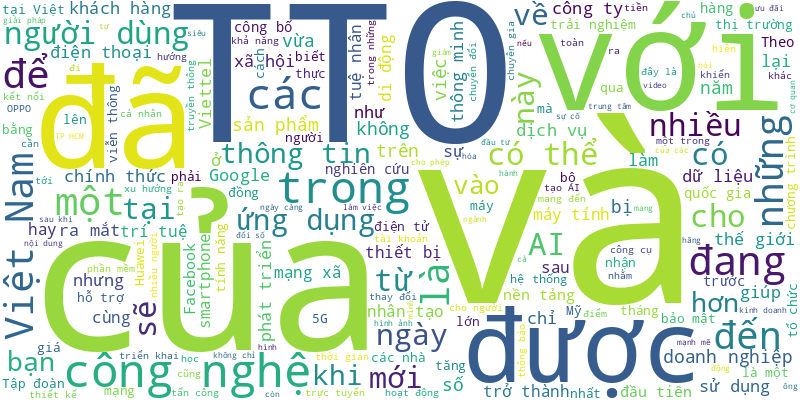
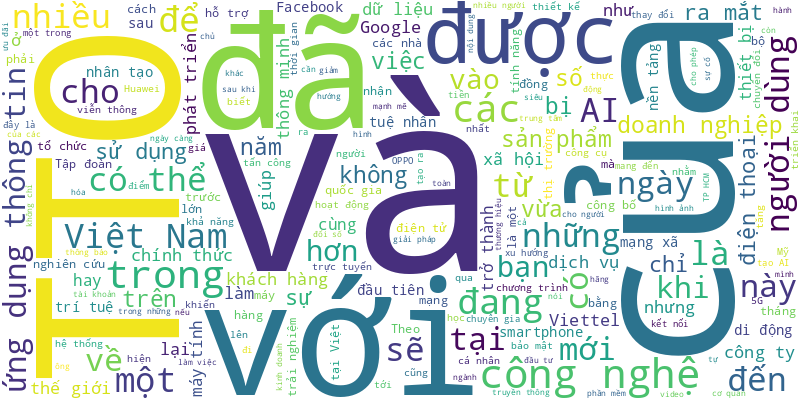
🍀 = 10%

diff --git a/README.md b/README.md
@@ -1,6 +1,12 @@
 # Tuoi Tre RSS 
 
 ## Giáo dục 
+- Bộ Quốc phòng vừa có giải đáp cử tri về việc đề nghị có quy định tạo điều kiện để quân nhân được công tác gần nhà nhằm ổn định cuộc sống và yên tâm phục vụ lâu dài.
+- The American School (TAS) nổi bật như một lựa chọn vững chắc với tầm nhìn dài hạn rõ ràng, chất lượng học thuật bền vững và môi trường học tập đa văn hóa, lấy học sinh làm trung tâm.
+- Camera an ninh cho thấy nhân viên nhà bếp đã thêm phẩm màu vào bột mì làm bánh cho trẻ tại trường mẫu giáo. Phẩm màu này có chứa chì và được dán nhãn không được ăn.
+- TP.HCM và Tập đoàn Intel phối hợp triển khai chương trình đào tạo nhân lực trong lĩnh vực trí tuệ nhân tạo (AI), trong đó tập trung vào cán bộ, công chức, những người đã và sắp đi làm của TP.
+- Sinh viên khoa marketing và truyền thông, Trường đại học Hoa Sen vừa hoàn thành môn học 'kỹ năng tạo lập văn bản truyền thông' tại Tuổi Trẻ.
+- Trong 6 giải nhất quốc gia cuộc thi vô địch tin học văn phòng, Nguyễn Thái Sơn là học sinh cấp 3 duy nhất.
 - Nhờ nỗ lực không ngừng và khả năng ngoại ngữ vượt trội, Hà Tiểu Linh, lớp 12/11 Trường Quốc tế Á Châu (Asian School), đạt học bổng của 10 trường đại học tại Hoa Kỳ.
 - Trong hệ thống giáo dục quốc tế, chương trình 'Dự bị Đại học' (Foundation Studies) là lựa chọn quen thuộc để học sinh rút ngắn thời gian trước khi vào đại học.
 - Nhiều thí sinh chờ có điểm thi tốt nghiệp THPT 2025 rồi xét tuyển vì năm nay không còn xét tuyển sớm, trong khi nhiều trường đại học yêu cầu thí sinh nộp hồ sơ sớm trực tuyến, trực tiếp để phục vụ công tác xét tuyển.
@@ -995,14 +1001,77 @@
 - Áp dụng chính sách học bổng toàn diện trong kỳ tuyển sinh 2025, Trường đại học Kinh tế - Tài chính TP.HCM (UEF) tiếp tục triển khai nhiều loại học bổng dành cho đa dạng thí sinh.
 - Bình Dương với đặc thù là tỉnh thu hút vốn đầu tư nước ngoài (FDI) dẫn đầu cả nước, nhân sự cho các nhà máy được doanh nghiệp và trường đại học phối hợp để đào tạo sinh viên đáp ứng nhu cầu sản xuất.
 - Đây là chia sẻ của các diễn giả trong chuỗi talkshow 'Học suốt đời' tại Trường đại học Hoa Sen vào ngày 19-4, với chủ đề 'Nghĩ khác, làm khác'.
-- Đại học Quốc gia TP.HCM sẽ phối hợp cùng tỉnh Đồng Tháp xây dựng chương trình phát triển nguồn nhân lực chất lượng cao, trong đó có mục tiêu đào tạo ít nhất 100 thạc sĩ và tiến sĩ.
-- 50 năm hòa bình, một thế hệ học sinh TP.HCM trải nghiệm lịch sử hào hùng ra sao? Từ những dòng nhật ký xúc động đến ngày hội 'Công dân nhí', câu chuyện về lòng yêu nước và trách nhiệm công dân được học sinh kể theo cách đầy bất ngờ.
-- Rất nhiều học sinh đã được Trường cao đẳng Lý Tự Trọng (TP.HCM) 'bật đèn xanh' cho phép học cao đẳng dù vẫn chưa hoàn thành hệ trung cấp.
-- Nhiều hoạt động sôi nổi của hàng ngàn giáo viên và trẻ mầm non khắp TP.HCM chào mừng 50 năm thống nhất đất nước tại 10 điểm cầu khiến người xem không muốn rời mắt.
-- Tỉnh Khánh Hòa vừa quyết định thu hồi đất đã giao hơn 10 năm trước thuộc dự án xây dựng Trường đại học Khánh Hòa tại xã Vĩnh Lương, TP Nha Trang theo chủ trương trước đây.
-- Công an Thái Bình đang xác minh việc một nữ sinh Trường THCS An Mỹ, huyện Quỳnh Phụ bị đánh hội đồng gây xôn xao dư luận.
 ![Edu](Edu.png)
 ## Thời Sự 
+- Ông Nguyễn Phi Thường - giám đốc Sở Xây dựng Hà Nội - cho biết 3 phường mới đã hứa và quyết tâm trong quý 4-2025 sẽ phấn đầu hoàn thành giải phóng mặt bằng liên quan tới dự án đường Vành đai 1, đoạn Hoàng Cầu - Voi Phục.
+- Dự kiến ủy viên Ủy ban Trung ương MTTQ Việt Nam nhiệm kỳ 2026 - 2031 sẽ có 500 vị, trong đó cơ cấu một số chủ tịch Ủy ban MTTQ cấp xã tiêu biểu.
+- Lực lượng chức năng phát hiện trong nhà có một bé trai hơn 10 tuổi đang hoảng loạn vì mắc kẹt trong đám cháy. Ngay lập tức, lực lượng chữa cháy chuyên nghiệp đã phá cửa, xông vào đám cháy đưa cháu bé ra ngoài an toàn.
+- Chính quyền cấp xã được phân quyền, phân cấp cho phép thỏa thuận nhận quyền sử dụng đất để làm dự án, lập và duyệt kế hoạch sử dụng đất sẽ mang lại nhiều thuận lợi cho người dân và doanh nghiệp khi triển khai.
+- Nghị định mới của Chính phủ quy định rõ 4 hình thức xử lý kỷ luật và thời hạn xử lý kỷ luật đối với cán bộ, công chức có vi phạm.
+- Một vụ tai nạn dù lượn xảy ra trên bán đảo Sơn Trà, Đà Nẵng khiến một du khách rơi xuống rừng tử vong.
+- Bộ Quốc phòng vừa có giải đáp cử tri về việc đề nghị có quy định tạo điều kiện để quân nhân được công tác gần nhà nhằm ổn định cuộc sống và yên tâm phục vụ lâu dài.
+- Dự án vi phạm Lancaster Lincoln của Công ty cổ phần Trung Thủy Lancaster ngừng thi công từ năm 2018 được UBND TP.HCM cho thi công phần hầm ngừa sự cố, chờ tháo gỡ pháp lý dự án.
+- Những công trình đáng ra người dân được hưởng lợi, được khám chữa bệnh ở cơ sở y tế "ngang tầm quốc tế" song lại bị bỏ hoang lãng phí nhiều năm trời.
+- Vụ tai nạn xe khách đặc biệt nghiêm trọng xảy ra trên cao tốc Vĩnh Hảo - Phan Thiết lúc rạng sáng 9-7 khiến 3 người chết, nhiều người bị thương.
+- Tin tức đáng chú ý: Tỉ phú Trần Đình Long vừa kiếm 2.000 tỉ đồng chỉ trong 1 ngày; Dự kiến giảm 368 cơ quan chuyên môn thuộc UBND cấp tỉnh; Sốt xuất huyết vẫn tăng cao với hơn 700 ca/tuần...
+- Hôm nay 9-7, dù ban ngày nắng nhưng từ đêm trở đi mưa tăng ở Bắc Bộ, mở đầu cho đợt mưa to diện rộng. Nam Bộ chiều tối mưa cũng tăng.
+- Hà Nội yêu cầu Văn phòng UBND TP báo cáo Ban Thường vụ Đảng ủy UBND TP báo cáo Thường trực, Ban Thường vụ Thành ủy để xem xét, cho phép triển khai thực hiện thí điểm không cần công chứng hợp đồng cho tặng trong dự án bất động sản.
+- Bộ trưởng Phạm Thị Thanh Trà lưu ý việc rà soát, đề xuất phương án điều chỉnh mức lương cơ sở, các phụ cấp khi thực hiện mô hình chính quyền địa phương 2 cấp.
+- Phó bí thư Thành ủy, kiêm Chủ tịch Ủy ban MTTQ Việt Nam TP.HCM Nguyễn Phước Lộc làm việc với đảng ủy 17 phường, xã về công tác chuẩn bị đại hội đảng bộ.
+- Quảng Ngãi đã chuẩn bị đầy đủ các điều kiện để sẵn sàng triển khai hàng loạt dự án giao thông trọng điểm như đường sắt tốc độ cao Bắc - Nam, cao tốc Quảng Ngãi - Kon Tum, sân bay Măng Đen và sân bay Lý Sơn.
+- UBND TP.HCM cho phép dự án Lancaster Lincoln của Công ty cổ phần Trung Thủy Lancaster thi công phần hầm, không phải cho tiếp tục thi công dự án.
+- Sau vụ phát hiện dầu gió con ó giả, dầu Ông già Thái Lan giả... Sở Y tế TP.HCM yêu cầu các cơ sở y tế rà soát những sản phẩm kinh doanh trong khuôn viên bệnh viện.
+- Đến ngày 5-7 các phường, xã, đặc khu của TP.HCM tiếp nhận 11.581 hồ sơ cấp sổ hồng lần đầu và các hồ sơ đất đai khác.
+- Sau khi các địa phương sáp nhập, triển khai chính quyền hai cấp, cơ sở y tế thuộc quản lý của ủy ban nhân dân cấp huyện như bệnh viện đa khoa huyện trước đây có sự thay đổi thế nào?
+- Trong hai ngày 6 và 7-7, Công an phường Chợ Quán (Công an TP.HCM) tiếp nhận thông tin cần giúp đỡ từ người dân và sau đó trích xuất camera, tìm tài sản bị thất lạc trả lại cho người dân kịp thời.
+- Ngày 8-7, Chủ tịch UBND tỉnh Đồng Tháp Trần Trí Quang ký quyết định phân công nhiệm vụ của chủ tịch và 3 phó chủ tịch tỉnh này.
+- Liên danh gồm Đèo Cả, Fecon (Việt Nam) và Tập đoàn PowerChina, Công ty Sucgi (Trung Quốc) đề xuất tham gia làm metro số 2 và các tuyến đường sắt đô thị tại TP.HCM.
+- Đang bị tước quyền sử dụng giấy phép lái xe nhưng anh T. vẫn lái xe chở khách. Gặp cảnh sát giao thông, anh T. nhờ anh D. tự nhận là người lái xe.
+- Bộ Chính trị, Ban Bí thư yêu cầu các tỉnh ủy, thành ủy, đảng ủy trực thuộc Trung ương khẩn trương lãnh đạo, chỉ đạo hoàn thiện tổ chức các cơ quan hành chính, đơn vị sự nghiệp nhà nước.
+- Giám đốc Công an tỉnh Đồng Tháp Lâm Phước Nguyên được thăng cấp bậc hàm từ đại tá lên thiếu tướng.
+- Đồng Nai đồng ý thu hồi gần 24ha đất để làm dự án hệ thống ống dẫn nhiên liệu cho sân bay Long Thành.
+- UBND tỉnh Lâm Đồng vừa ban hành quyết định phân công chủ tịch và các phó chủ tịch UBND tỉnh theo dõi, chỉ đạo 48 dự án quy mô lớn, tổng vốn đầu tư lên đến nhiều tỉ USD.
+- Bộ Xây dựng thống nhất cần thiết đầu tư dự án đường cao tốc Mộc Châu - TP Sơn La dài 105km, tổng mức đầu tư dự kiến 22.262 tỉ đồng.
+- Nhà máy xử lý rác duy nhất của tỉnh Cà Mau vẫn đóng cửa do vướng thủ tục về đơn giá, địa phương phải triển khai hệ thống chôn rác tạm thời để tránh nguy cơ ùn ứ rác diện rộng.
+- Ông Nguyễn Đình Hưng - phó giám đốc Sở Y tế Hà Nội - đề xuất như vậy tại phiên thảo luận tổ, phiên họp thứ 25, HĐND TP Hà Nội chiều 8-7.
+- Chủ tịch UBND TP.HCM giao giám đốc Sở Văn hóa và Thể thao phối hợp xây dựng đề án sắp xếp HTV, VOH, BTV, BRT và sắp xếp, tinh gọn các báo, tạp chí do UBND TP.HCM làm chủ quản, gửi Sở Nội vụ trước 21-7.
+- Vụ tai nạn xảy ra chiều 8-7 trên tuyến đường sắt Bắc - Nam, đoạn qua xã Suối Kiết, tỉnh Lâm Đồng khiến người đàn ông chết tại chỗ.
+- Một phường ở Đà Nẵng đã mời chuyên gia công nghệ AI hướng dẫn cán bộ phường, với mong muốn 'AI sẽ là trợ lý hành chính ảo' giúp giảm tải thủ tục, nâng cao chất lượng dịch vụ công.
+- Khi vụ chặt bán 7 cây xà cừ trong khuôn viên phường Cheo Reo chưa kịp lắng xuống, dư luận lại phát hiện thêm 2 vụ cưa bán cây xanh tại 2 xã của tỉnh Gia Lai và tỉnh Bình Định cũ.
+- Ngày 8-7, đại diện Phòng cảnh sát giao thông (PC08) Công an TP.HCM cho biết từ ngày 1-7, Công an TP.HCM chính thức triển khai việc phân cấp đăng ký xe tại tất cả công an các phường, xã, đặc khu.
+- Việc đấu giá 21 lô đất tại phường Thanh Đức, tỉnh Vĩnh Long (huyện Long Hồ cũ) có sai phạm khi cá nhân bị hạn chế tham gia, thiếu tính cạnh tranh.
+- Bí thư Đảng ủy phường Bến Thành Hoàng Thị Tố Nga cho biết sắp tới phường Bến Thành (TP.HCM) sẽ sáp nhập 3 ban quản lý chợ gồm chợ Bến Thành, chợ Dân Sinh và chợ Thái Bình.
+- Dãy số trên thẻ bảo hiểm y tế có ý nghĩa như thế nào, nhìn thông tin có thể biết được mức hưởng.
+- Nguyên nhân bước đầu xác định là do đường dây dẫn điện cung cấp cho các thiết bị tiêu thụ điện do chủ căn hộ tự đấu nối bị chạm chập, gây cháy.
+- Đó là một trong những nội dung có trong thông tư vừa được Bộ Quốc phòng ban hành liên quan việc tuyển chọn và gọi công dân nhập ngũ.
+- Tại phiên họp thứ 28 của Ban Chỉ đạo Trung ương về phòng, chống tham nhũng, lãng phí, tiêu cực, đã quyết định bổ sung 4 vụ án, 2 vụ việc vào diện theo dõi, chỉ đạo.
+- Do chưa có tuyến đường nào cắm biển tốc độ tối đa 30km/h nên chủ 278 xe điện ở phường Cửa Lò, Nghệ An đang lo lắng trước nguy cơ phải dừng hoạt động.
+- Văn phòng Chính phủ thống kê từ ngày 1 đến ngày 4-7, Quảng Ngãi có 24 xã không phát sinh bất kỳ thủ tục hành chính nào.
+- Tại sông Hậu, tỉnh An Giang, một số cần thủ cho hay đang mùa câu cá cóc. Bên cạnh những người câu cá để giải trí còn có những người xem đây là nghề mưu sinh.
+- Sau vụ việc người dân tự ý chặt hạ cây phi lao trong rừng phòng hộ ven biển, chủ tịch UBND tỉnh Hà Tĩnh đã chỉ đạo các cơ quan chức năng chấn chỉnh.
+- Cần Thơ muốn hợp tác với GenAI Fund để ứng dụng AI vào cải cách thủ tục hành chính, đặc biệt là tổng đài 24/7 để tương tác với người dân.
+- Ban Thường vụ Tỉnh ủy Quảng Ngãi phân công nhiệm vụ cho ông Trần Thế Phan, chỉ huy trưởng Bộ Chỉ huy Quân sự tỉnh, theo dõi 2 địa bàn trọng yếu là xã biên giới Pờ Y và đặc khu Lý Sơn.
+- Trước mắt tỉnh Vĩnh Long (mới) chỉ bố trí được nhà ở công vụ, nhà lưu trú tạm cho hơn 580 cán bộ, trong tổng số gần 1.900 người có nhu cầu, sau hợp nhất với tỉnh Trà Vinh, Bến Tre.
+- Phó tổng Thanh tra Chính phủ kỳ vọng những câu chuyện về sự tận tụy, liêm chính của cán bộ thanh tra sẽ được lan tỏa.
+- Đây là kết quả từ chuyến công tác Brazil của Thủ tướng Phạm Minh Chính, góp phần nâng cao hình ảnh Việt Nam tại BRICS mở rộng.
+- Sau 7 ngày đi vào hoạt động, Trung tâm phục vụ hành chính công ở đặc khu Phú Quốc có dấu hiệu quá tải khi dân đến làm thủ tục nhiều.
+- Với đường bờ biển dài hơn 32km, tỉnh Đồng Tháp sẽ có cảng biển tiếp nhận tàu 70.000 tấn.
+- Bộ Tài chính đã có báo cáo làm rõ những nội dung về hồ sơ mời thầu, quá trình đánh giá hồ sơ dự thầu của tổ chuyên gia, năng lực của tổ chuyên gia.
+- Sáng 8-7, HĐND TP Hà Nội khóa XVI tổ chức kỳ họp lần thứ 25 để xem xét tình hình phát triển kinh tế - xã hội 6 tháng đầu năm, nhiệm vụ 6 tháng cuối năm và các vấn đề khác thuộc thẩm quyền.
+- Đã đến lúc phải quyết liệt chấn chỉnh, trả lại công năng và không gian công cộng vỉa hè.
+- Tổng thống Uruguay nhất trí với đề xuất của Thủ tướng Phạm Minh Chính về việc sớm đàm phán, hoàn tất FTA Việt Nam - MERCOSUR.
+- Tuyến quốc lộ 15D lên cửa khẩu quốc tế La Lay (Quảng Trị) đã bị chia cắt vì sạt lở đất.
+- Bí thư Thành ủy TP.HCM Nguyễn Văn Nên đến nhà tang lễ chùa Vĩnh Nghiêm thắp hương, chia buồn với thân nhân các nạn nhân vụ cháy cư xá Độc Lập khiến 8 người thiệt mạng.
+- Bộ Nội vụ đã có phản hồi nhiều ý kiến của cán bộ, người dân gửi đến hỏi về các vấn đề liên quan tiền lương, mô hình chính quyền 2 cấp.
+- 21 thành viên Chính phủ đã có ý kiến dự thảo nghị quyết tháo gỡ khó khăn dự án 10.000 tỉ và dự án kết nối đường Phạm Văn Đồng - quốc lộ 1.
+- Dự án nút giao An Phú có số vốn không quá lớn so với nhiều công trình nhưng có tới hơn 20 nhà thầu tham gia, trong khi tiến độ lại ì ạch.
+- Sáng 8-7, ngọn lửa kèm khói đen bốc lên nghi ngút tại dãy trọ nằm trên đường Đỗ Mười, phường Tân Thới Hiệp (TP.HCM) khiến nhiều tài sản bị thiêu rụi.
+- Khoảng 8h40 ngày 8-7, kho vải bông tại số 100 Nguyễn Đình Tựu (phường An Khê, TP Đà Nẵng) bị bốc cháy dữ dội.
+- Bất chấp bối cảnh kinh tế toàn cầu còn nhiều bất ổn, hoạt động xuất khẩu của tỉnh Quảng Ngãi vẫn ghi nhận nhiều tín hiệu tích cực.
+- Thủ tướng Phạm Minh Chính nhấn mạnh chỉ có chung tay hành động mới có thể để lại một hành tinh khỏe mạnh cho thế hệ mai sau.
+- Câu chuyện karaoke loa kẹo kéo mở inh tai nhức óc tại các làng du lịch Hội An đặt ra vấn đề cấm karaoke gây ồn từ sau 22h có còn phù hợp?
+- Chủ tịch UBND TP.HCM vừa công bố danh mục 2.168 thủ tục hành chính tiếp nhận và trả kết quả tại bộ phận một cửa cấp thành phố và cấp phường, xã, đặc khu tại TP.HCM.
+- Ngày giỗ đầu tiên của cố Tổng Bí thư Nguyễn Phú Trọng, từng dòng người lặng lẽ về thôn Lại Đà (Hà Nội) để thắp hương, tưởng nhớ ông.
 - Sau 10 năm được nuôi dưỡng tại Thảo cầm viên Sài Gòn, hổ trắng có tên Ngộ Không đã mất do bệnh.
 - Bà L.T.K. được xác định có hành vi lấn chiếm vỉa hè để kinh doanh, vi phạm trật tự công cộng.
 - 2 anh em họ tắm hồ Ea Kar (xã Ea Kar, tỉnh Đắk Lắk) vào chiều 7-7 và bị chết đuối. Lực lượng chức năng và người dân tìm thấy thi thể 2 bé dưới lòng hồ, cách vị trí tắm khoảng 100m.
@@ -1934,77 +2003,9 @@
 - Xây dựng, triển khai Trung tâm điều hành thông minh (IOC) bảo đảm kết nối liên thông, khai thác hiệu quả thông tin, dữ liệu, phối hợp với các địa phương.
 - Ngày 23-6, UBND TP Hà Nội ban hành kế hoạch triển khai các giải pháp cấp bách kiểm soát và xử lý ô nhiễm môi trường nước tại sông Nhuệ, Đáy, Ngũ Huyện Khê, Cầu Bây và hệ thống thủy lợi Bắc Hưng Hải.
 - Trong 86 cán bộ dự kiến bố trí làm bí thư, chủ tịch xã, phường của tỉnh Sóc Trăng sau khi sắp xếp, có nhiều người là lãnh đạo các sở ngành.
-- Ông Y Thanh Hà Niê Kđăm, bí thư Tỉnh ủy Lâm Đồng, nhìn nhận Lâm Đồng cần đồng bộ hạ tầng công nghệ để vận hành suôn sẻ chính quyền hai cấp.
-- Câu chuyện thiếu cát, đất đắp xây dựng ảnh hưởng đến các công trình trọng điểm tại Đà Nẵng được mang ra mổ xẻ.
-- Nữ giám đốc công ty dù không được cấp phép sản xuất mỹ phẩm nhưng vẫn đặt in bao bì, mua kem nền không rõ nguồn gốc về sang chiết, đóng gói đặt thương hiệu riêng.
-- UBND TP.HCM quyết định thành lập tổ công tác gồm 10 thành viên để tham mưu chiến lược và xây dựng lộ trình chuyển đổi xanh, hướng tới mục tiêu giảm phát thải khí nhà kính, phát triển bền vững đến năm 2050.
-- Biên chế năm 2025 khi thực hiện mô hình chính quyền địa phương 2 cấp, UBND tỉnh Đồng Tháp đề xuất điều chỉnh giảm từ 5.502 biên chế còn 4.515 biên chế công chức hành chính cấp tỉnh, cấp xã (giảm 987 biên chế).
-- Bí thư Trung ương Đảng, trưởng Ban Chính sách, Chiến lược Trung ương đồng tình với phương án đưa cán bộ từ tỉnh về công tác tại xã, phường mới.
-- Một số thủ tục hành chính thiết yếu với người dân trong lĩnh vực đất đai, hộ tịch sẽ được chọn vận hành thử nghiệm tại các xã, phường của tỉnh Gia Lai mới.
-- Văn bản do Bộ trưởng Phạm Thị Thanh Trà ký hướng dẫn cụ thể về số lượng phó chủ tịch UBND cấp tỉnh với 23 tỉnh, thành phố mới sau sáp nhập.
-- Ông Lê Trung Chinh - chủ tịch UBND TP Đà Nẵng, xin nghỉ hưu trước tuổi. Thông tin này vừa được công bố tại kỳ họp HĐND TP Đà Nẵng chiều 23-6.
-- Tất cả 30 xã, phường, đặc khu của tỉnh Bà Rịa - Vũng Tàu vừa tổ chức vận hành thử nghiệm cả bộ máy và trung tâm phục vụ hành chính công. Kết quả chạy thử đạt yêu cầu, đúng theo kế hoạch, chương trình đề ra.
-- Thường trực Ban Bí thư nhấn mạnh việc kiên quyết không để lọt vào cấp ủy khóa mới những cán bộ suy thoái tư tưởng chính trị, đạo đức,  tham nhũng.
-- Ngày 23-6, Thủ tướng Chính phủ Phạm Minh Chính chủ trì họp Thường trực Chính phủ với các ban, bộ, ngành, cơ quan Trung ương về công tác chuẩn bị tổ chức triển lãm thành tựu kinh tế - xã hội nhân dịp kỷ niệm 80 năm Ngày Quốc khánh.
-- Tỉnh Quảng Trị vừa tạo nên một dấu ấn ấn tượng khi hoàn thành chương trình xóa nhà tạm, nhà dột nát, về đích trước 2 tháng.
-- Hàng trăm hộ dân bị cô lập ở Lạng Sơn, trong đó có nhiều người cao tuổi và trẻ em đã được lực lượng chức năng đưa đến nơi an toàn.
-- TP Phú Quốc ra quân cưỡng chế thu hồi đất của 3 hộ dân bao chiếm với diện tích khoảng 15.000m² đất ở phường An Thới.
-- "Chúng ta chưa bao giờ có được một hệ thống chính trị của đất nước đồng bộ như hiện nay" - Tổng Bí thư Tô Lâm nhấn mạnh.
-- Liên quan đến vụ ngàn chai nước mắm bị vứt ven đường (Quảng Nam), đã xác định được người đem đổ số nước mắm hết hạn này.
-- Từ 1-7, người dân và doanh nghiệp được chọn nơi nộp hồ sơ đăng ký đất đai trong phạm vi cấp tỉnh, thay vì nộp tại nơi có đất như trước.
-- Bộ Văn hóa, Thể thao và Du lịch cho phép UBND tỉnh Cà Mau tổ chức bắn pháo hoa tầm cao tại thành phố Bạc Liêu và thành phố Cà Mau để chào mừng sự kiện hợp nhất tỉnh.
-- Clip trên mạng xã hội về việc người đàn ông kéo sập cửa nhà hàng xóm do xuất phát từ việc hát karaoke gây ồn ào đang được làm rõ.
-- Vụ tai nạn giao thông đặc biệt nghiêm trọng xảy ra trên đường Trường Sơn Đông, đoạn qua xã Krông Jing, huyện M'Đrắk, tỉnh Đắk Lắk.
-- Công an tỉnh Lâm Đồng đã hoàn thành dự kiến sắp xếp vị trí trưởng phòng thuộc Công an tỉnh Lâm Đồng sau sáp nhập.
-- Phải lấy người dân, doanh nghiệp làm trung tâm và mục tiêu cao nhất là đơn giản hóa thủ tục hành chính, rút ngắn thời gian, giảm chi phí.
-- Từ ngày 1-7 tới, 20 chi cục hải quan khu vực theo quyết định số 2019 của Bộ Tài chính sẽ chính thức đi vào hoạt động.
-- Trưởng Ban Chính sách, chiến lược Trung ương đánh giá cao sự chủ động của phường Phan Rang (Ninh Thuận) và xã Cam Lâm (Khánh Hòa).
-- Khi người dân nghi ngờ máy kiểm tra nồng độ cồn, một cán bộ cảnh sát giao thông đã chửi người này 'mồm thối'.
-- Bộ trưởng Bộ Tư pháp đã có giải trình về dự thảo nghị quyết của Quốc hội về cơ chế xử lý khó khăn, vướng mắc do quy định của pháp luật.
-- Phương án phân làn bằng dải phân cách cứng trên đường Võ Chí Công (vành đai 2) và Phạm Văn Đồng (vành đai 3) đang gây ùn tắc nghiêm trọng.
-- Kinh tế Đà Nẵng trong 6 tháng đầu năm ước tăng hơn 11%. Thu ngân sách cũng vượt cùng kỳ năm 2024 theo chiều hướng tích cực.
-- Bí thư Bà Rịa - Vũng Tàu Phạm Viết Thanh đã có những lời khuyên, gửi gắm đến cán bộ tỉnh này khi hợp nhất vào TP.HCM.
-- Chủ tịch cấp xã được giao cấp sổ đỏ lần đầu cho người dân, xác định lại diện tích đất ở, quyết định giao, cho thuê đất đai...
-- Sau khi thử nghiệm, tỉnh Đồng Nai cho hay một số thủ tục hành chính chưa thể liên thông được dữ liệu với các bộ ngành.
-- Sau sắp xếp, tỉnh Đồng Nai có tất cả 95 đơn vị hành chính cấp xã gồm 72 xã và 23 phường. Hiện giữa Bình Phước và Đồng Nai cũng đã hợp nhất các phường xã, công bố trụ sở hành chính.
-- Bị truy đuổi, nhóm 'quái xế' dùng vỏ chai bia ném về hướng lực lượng cảnh sát 113 buộc tổ công tác phải bắn nhiều phát súng chỉ thiên cảnh cáo.
-- Chủ tịch UBND TP Thủ Đức công bố 9 đồ án phân khu 1/2000, tiến tới thí điểm miễn giấy phép xây dựng nhà ở riêng lẻ từ ngày 1-1-2026.
-- Ngày 23-6, Tỉnh ủy Phú Yên tổ chức hội nghị công bố quyết định hợp nhất báo Phú Yên với Đài phát thanh và truyền hình Phú Yên thành báo Phú Yên.
-- Sáng 23-6, Chủ tịch UBND TP Hà Nội Trần Sỹ Thanh chủ trì hội nghị công bố các quyết định về công tác cán bộ.
-- Đại biểu Nguyễn Văn Cảnh cho hay quy tắc nhập làn mang lại hiệu quả rất lớn, giúp nâng cao hiệu quả sử dụng hạ tầng cả nước.
-- UBND TP Gia Nghĩa, tỉnh Đắk Nông, đã ra quyết định chấm dứt dự án 'treo' 15 năm và đang thực hiện các thủ tục trả lại quyền lợi cho dân.
-- Sáng 23-6, Tổng Bí thư Tô Lâm trao quyết định của Bộ Chính trị về việc thành lập Cơ quan Ủy ban Trung ương MTTQ Việt Nam.
-- Thủ tướng Phạm Minh Chính đã ký công điện về việc đảm bảo cơ sở, vật chất cho các cơ quan, tổ chức đơn vị của Nhà nước khi thực hiện sắp xếp, tinh gọn bộ máy, sắp xếp đơn vị hành chính xây dựng mô hình chính quyền địa phương hai cấp.
-- Theo Luật Bảo hiểm y tế sửa đổi có hiệu lực từ 1-7, tổng số đối tượng được cấp thẻ bảo hiểm miễn phí nâng lên 20.
-- Nhiều người nhìn nhận mức phạt vi phạm giao thông có thể sẽ 'nhớ đời', nhưng sao vẫn còn nhiều vi phạm?
-- Đà Nẵng đã dành quỹ đất phục vụ việc phát triển Trung tâm tài chính quốc tế. Đáng chú ý, đây đều là những vị trí đắc địa.
-- Ba du khách leo núi Hoàng Ngưu Sơn (TP Nha Trang, Khánh Hòa) thì đi lạc, phải nhờ lực lượng chức năng ứng cứu.
-- Tin tức đáng chú ý: Tuần này Quốc hội biểu quyết thông qua nhiều luật, nghị quyết; Một quỹ ngoại dự chi hàng nghìn tỉ đồng mua cổ phiếu REE; Công ty ở TP.HCM bị phạt nặng vì báo cáo sai lệch...
-- Sáng nay 23-6, Tòa án nhân dân TP.HCM mở phiên tòa xét xử 22 bị cáo trong vụ án đưa, nhận hối lộ xảy ra tại Trung tâm Lý lịch tư pháp quốc gia.
-- Hôm nay 23-6, thời tiết Bắc Bộ và Nam Bộ về chiều tối vẫn còn mưa to, Trung Bộ nắng nóng nhưng chiều mưa.
-- Tối 22-6 đã diễn ra chương trình 'Vinh quang Việt Nam năm 2025' với chủ đề 'Tự hào và khát vọng' do báo Lao Động tổ chức.
-- Công ty cổ phần thương mại dịch vụ Ăn Cùng Bà Tuyết vừa chính thức hoàn tất thủ tục giải thể. Còn hộ kinh doanh cá thể do ông Nguyễn Minh Trường - con trai bà Tuyết - trực tiếp điều hành vẫn hoạt động bình thường.
-- Người nông dân cảm nhận thực sự thành quả mang lại chứ không phải những lời sáo rỗng, những lời hứa suông…
-- Tỉnh ủy Lâm Đồng chính thức công bố nhiều quyết định chỉ định nhân sự chủ chốt cho 5 phường mới được thành lập từ TP Đà Lạt và một phần huyện Lạc Dương hiện nay.
-- Trong lúc người thợ đến sửa nhà thì bất ngờ phát hiện bộ xương người trong bồn chứa nước đặt trên mái nhà một hộ dân ở thành phố Biên Hòa, Đồng Nai.
-- Thống kê từ báo cáo tài chính của 27 ngân hàng (chưa bao gồm Agribank) cho thấy tổng dư nợ cho vay khách hàng đến cuối quý 1-2025 đạt hơn 12,3 triệu tỉ đồng, tăng 3,8% so với cuối năm 2024.
-- Tối 22-6, chương trình Giao lưu hữu nghị Việt Nam - Hoa Kỳ đã diễn ra tại Đà Nẵng mở đầu cho chuỗi sự kiện kỷ niệm 30 năm thiết lập quan hệ ngoại giao Việt Nam - Hoa Kỳ (1995 - 2025).
-- Thường trực Ban Chỉ đạo sắp xếp, sáp nhập 2 tỉnh Khánh Hòa - Ninh Thuận vừa chỉ đạo chuẩn bị các điều kiện bảo đảm đưa bộ máy cấp tỉnh, cấp xã mới hoạt động từ ngày 1-7, không gây gián đoạn phục vụ người dân, doanh nghiệp.
-- Sau khi Công an Thanh Hóa công bố kết quả kiểm tra tại cơ sở sản xuất nước mắm, liên quan đến vụ cả ngàn chai nước mắm vứt ven đường ở Quảng Nam, bạn đọc đề nghị xử lý nghiêm vụ việc và khuyên dùng nước mắm truyền thống.
-- Công an tỉnh An Giang tổ chức tiêu hủy hơn 1.580 công cụ hỗ trợ, vũ khí nguy hiểm được đơn vị này vận động thu gom, thu hồi trên địa bàn tỉnh.
-- Bộ Quốc phòng vừa công bố toàn văn hồ sơ công khai quy hoạch chi tiết khu vực dự án đầu tư mở rộng quảng trường Ba Đình.
-- Dự án đường dẫn ra cảng tổng hợp TP Hà Tiên có tổng vốn đầu tư khoảng 1.177 tỉ đồng và có ý nghĩa chiến lược kết nối Campuchia, Thái Lan và đặc biệt với Phú Quốc để phát triển kinh tế biển, du lịch.
-- Liên quan bỏ thuế khoán, đại biểu Hoàng Văn Cường (Hà Nội) cho rằng các hộ kinh doanh chắc chắn không sợ mất tiền và cần thu thuế một cách rõ ràng, phù hợp.
-- Năm nay vải thiều, vải Thanh Hà được mùa nhưng niềm vui của nhiều người nông dân ở Bắc Giang chưa trọn vẹn vì nỗi lo giá giảm, rẻ như cho.
-- Khách Trung Quốc đã và đang trở lại Phú Quốc nhiều và tạo cú hích mạnh mẽ, để hòn đảo xinh đẹp này phát triển du lịch.
-- Sau khi bị kiểm tra việc bán giá cao, Công ty cổ phần Cấp nước Đắk Lắk bất ngờ đề nghị trả lại 24 công trình cấp nước.
-- TP.HCM cần tập trung khẩn trương triển khai dự án xây dựng, phát triển cảng trung chuyển quốc tế Cần Giờ theo các nghị quyết của Bộ Chính trị.
-- Vườn thú thân thiện có những loài thú đáng yêu khác như sóc Bắc Mỹ, gấu mèo... cho phép du khách vào “giao lưu” trực tiếp.
-- Sở Xây dựng phối hợp với các địa phương rà soát 360 khu vực với khoảng 55.000 lô, nền ở TP.HCM đủ điều kiện miễn cấp phép xây dựng.
-- Dự kiến tuần sau 168 phường, xã của TP.HCM mới và các sở, ban, ngành sẽ chạy thử đồng loạt trên cùng hệ thống.
-- Công an Quảng Nam vừa triệt phá đường dây cá độ bóng đá trên mạng với số tiền giao dịch hơn 350 tỉ đồng; bắt giữ, triệu tập 34 người.
 ![New](News.png)
 ## Nhịp sống số 
+- Nút home vật lý, jack tai nghe 3.5mm... từng là 'đặc sản' của smartphone nhưng nay đã biến mất cùng sự phát triển chóng mặt của công nghệ hiện đại.
 - Chuyên gia bảo mật cảnh báo người tham gia trào lưu tìm lại ký ức với Google Maps có thể để lộ thông tin cá nhân mà không hay biết.
 - AI đang giúp cảnh báo sớm thiên tai như động đất, lũ, sóng thần nhờ phân tích dữ liệu cảm biến, vệ tinh và mô phỏng lan truyền.
 - Bạn đã từng dùng Bluetooth để nghe nhạc qua tai nghe, AirDrop để gửi ảnh, nhưng có bao giờ thử so sánh chúng?
@@ -3004,5 +3005,4 @@
 - TTO - Từng là một trong những phần mềm nghe nhạc đầu tiên hỗ trợ chơi nhạc MP3 phổ biến nhất vào cuối thập niên 1990, Winamp dự kiến sẽ trở lại dưới hình thức một ứng dụng di động tích hợp tất cả các dịch vụ nghe nhạc, streaming, podcast…
 - TTO - Vừa qua, Thống đốc California Jerry Brown đã thông qua luật an ninh mạng dành riêng cho công nghệ IoT nhằm đặt ra tiêu chuẩn chung cho các nhà sản xuất thiết bị kết nối.
 - TTO – Sự thật được hé lộ từ một bài viết trên nền tảng blog Medium của một nhân viên giấu tên làm việc cho Amazon.
-- TTO - Tài khoản email bị hack có thể dẫn đến các vấn đề nghiêm trọng hơn, chẳng hạn như trộm cắp danh tính và xâm nhập quyền riêng tư. Nhưng trước khi bạn hoang mang với những hệ lụy đó, hãy bình tĩnh lại và làm theo 4 bước đơn giản sau đây.
 ![life](Life.png)
